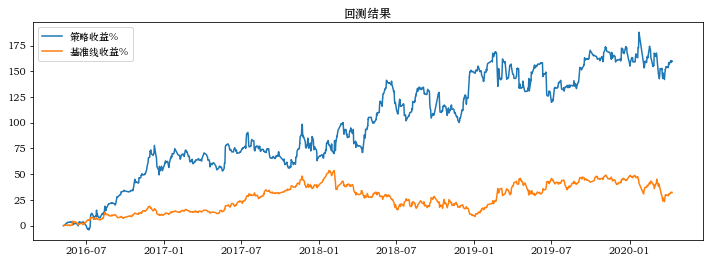
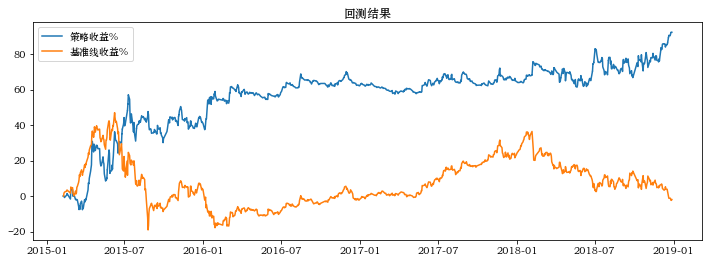
第三次上传补充说明

diff --git a/SABR_Strategy_2.0.py b/SABR_Strategy_2.0.py
@@ -33,10 +33,19 @@ def CalSabr(F,K,T,arg,alpha,beta):
     
     return a/b*z/X
 
+def optMSE(VIX,F,K,T,arg,alpha,beta):
+    
+    n,MSE = len(VIX),0
+    for i in range(n):
+        Sabr = CalSabr(F,K[i],T,arg,alpha,beta)
+        MSE = MSE+(VIX[i]-Sabr)**2
+    
+    return MSE/n
+
 def fun(args):
     
     VIX,F,K,T,alpha,beta = args
-    v = lambda x: abs(VIX-CalSabr(F,K,T,x,alpha,beta))
+    v = lambda x: optMSE(VIX,F,K,T,x,alpha,beta)
     
     return v
 
@@ -65,7 +74,7 @@ def CalDelta(S0,X,sigma,rf,T,CorP=1):
 
 #%% 寻找每日可开仓的期权合约
 
-df = DB.getUnderlying(start_date='20160410',end_date='20200410')[['trade_date','close','pre_close']]
+df = DB.getUnderlying(end_date='20190101')[['trade_date','close','pre_close']]
 df.dropna(inplace=True)
 df.reset_index(drop=True,inplace=True)
 rfDf = DB.getRf(df['trade_date'].iloc[0],df['trade_date'].iloc[-1])
@@ -99,14 +108,15 @@ def getTdAlpha(pre_close,OpDB,td,maturity_date,rf):
 df['alpha'] = df.apply(lambda x: getTdAlpha(x['pre_close'],OpDB,x['trade_date'],x['maturity_date'],x['rf']),axis=1)
 df['alpha'] = df['alpha'].apply(lambda x: np.nan if x<10e-6 else x)
 df['alpha'].fillna(method='ffill',inplace=True)
-
+df['beta'] = 0
+'''
 from pyfinance.ols import PandasRollingOLS
 df['lnA'],df['lnf'] = np.log(df['alpha']),np.log(df['pre_close'])
 df['beta'] = PandasRollingOLS(df['lnA'],df['lnf'],21).beta+1
 df.drop(['lnA','lnf'],axis=1,inplace=True)
 df.dropna(inplace=True)
 df.reset_index(drop=True,inplace=True)
-
+'''
 #%% 自己定义今天想要什么样的期权
 
 def getTdOp(pre_close,OpDB,td,maturity_date,rf,alpha,beta):
@@ -129,17 +139,17 @@ def getTdOp(pre_close,OpDB,td,maturity_date,rf,alpha,beta):
     n = len(df)
     if n==0:
         return []
-    arg = []
+    VIX,K = list(df['VIX']),list(df['exercise_price'])
     x0 = np.asarray((0.5,0.5))
     arg_1 = (-1,1,0,1)
     cons = con(arg_1)
-    for i in range(n):
-        VIX,F,K,T,alpha,beta = df['VIX'].iloc[i],df['underlying_pre_close'].iloc[i],df['exercise_price'].iloc[i],df['T'].iloc[i],df['alpha'].iloc[i],df['beta'].iloc[i]
-        arg_0 = (VIX,F,K,T,alpha,beta)
-        res = minimize(fun(arg_0),x0,method='SLSQP',constraints=cons)
-        arg.append(res.x)
+    arg_0 = (VIX,pre_close,K,T,alpha,beta)
+    res = minimize(fun(arg_0),x0,method='SLSQP',constraints=cons)
+    arg = res.x
+    arg = arg[np.newaxis,:]
+    arg = arg.repeat(n, axis=0)
     
-    df['arg'] = arg
+    df['arg'] = list(arg)
     df['SABR'] = df.apply(lambda x: CalSabr(x['underlying_pre_close'],x['exercise_price'],x['T'],x['arg'],x['alpha'],x['beta']),axis=1)
     df['dis'] = df['VIX']-df['SABR']
     df.dropna(inplace=True)
@@ -176,6 +186,7 @@ df['code'] = df.apply(lambda x: getTdOp(x['pre_close'],OpDB,x['trade_date'],x['m
 #%% 设置买入卖出阈值
 
 df[['sell','buy','delta','dis']] = df['code'].apply(pd.Series)
+df.fillna(method='ffill',inplace=True)
 signal,dis,sell,buy,n = [1],df['dis'].iloc[0],df['sell'].iloc[0],df['buy'].iloc[0],len(df)
 for i in range(1,n,1):
     if (df['sell'].iloc[i]!=sell)and(df['buy'].iloc[i]!=buy):

diff --git a/SABR_Strategy.py b/SABR_Strategy.py
@@ -153,6 +153,7 @@ df['code'] = df.apply(lambda x: getTdOp(x['pre_close'],x['sigma'],OpDB,x['trade_
 #%% 设置买入卖出阈值
 
 df[['sell','buy','delta','dis']] = df['code'].apply(pd.Series)
+df.fillna(method='ffill',inplace=True)
 signal,dis,sell,buy,n = [1],df['dis'].iloc[0],df['sell'].iloc[0],df['buy'].iloc[0],len(df)
 for i in range(1,n,1):
     if (df['sell'].iloc[i]!=sell)and(df['buy'].iloc[i]!=buy):
